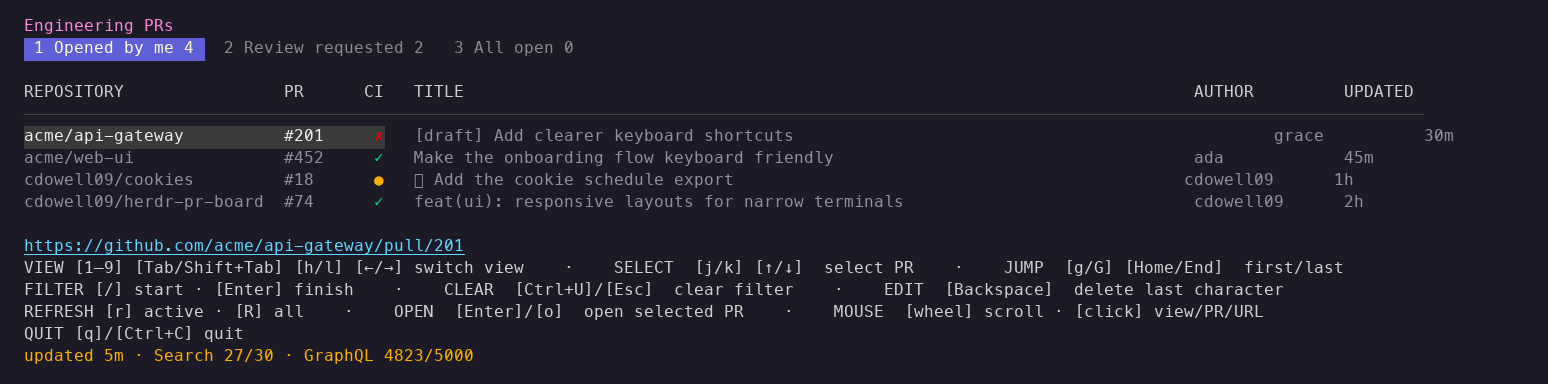
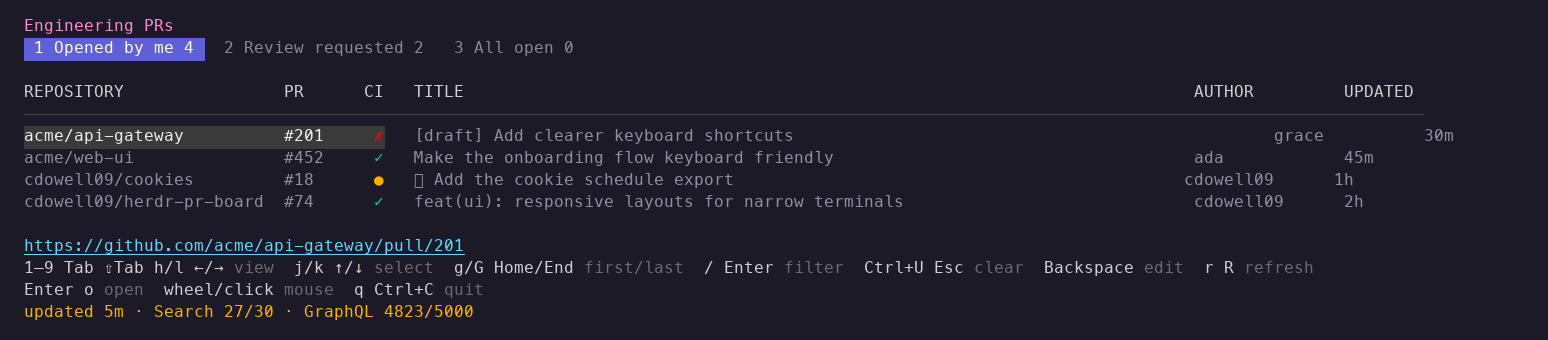
fix(ui): simplify shortcut footer

diff --git a/internal/board/model.go b/internal/board/model.go
@@ -43,7 +43,7 @@ var (
 	headerStyle   = lipgloss.NewStyle().Bold(true).Foreground(lipgloss.Color("252")).BorderBottom(true).BorderStyle(lipgloss.NormalBorder()).BorderForeground(lipgloss.Color("238"))
 	selectedStyle = lipgloss.NewStyle().Foreground(lipgloss.Color("255")).Background(lipgloss.Color("237"))
 	dimStyle      = lipgloss.NewStyle().Foreground(lipgloss.Color("242"))
-	helpStyle     = lipgloss.NewStyle().Foreground(lipgloss.Color("252"))
+	keyStyle      = lipgloss.NewStyle().Bold(true).Foreground(lipgloss.Color("252"))
 	warningStyle  = lipgloss.NewStyle().Foreground(lipgloss.Color("214"))
 	errorStyle    = lipgloss.NewStyle().Foreground(lipgloss.Color("196"))
 	urlStyle      = lipgloss.NewStyle().Foreground(lipgloss.Color("81")).Underline(true)
@@ -68,22 +68,22 @@ type browserMsg struct {
 }
 
 type keyHelpEntry struct {
-	label    string
-	controls string
+	keys   string
+	action string
 }
 
 // keyHelp is the single source of truth for the footer control list.
 var keyHelp = []keyHelpEntry{
-	{"VIEW", "[1–9] [Tab/Shift+Tab] [h/l] [←/→]  switch view"},
-	{"SELECT", "[j/k] [↑/↓]  select PR"},
-	{"JUMP", "[g/G] [Home/End]  first/last"},
-	{"FILTER", "[/] start · [Enter] finish"},
-	{"CLEAR", "[Ctrl+U]/[Esc]  clear filter"},
-	{"EDIT", "[Backspace]  delete last character"},
-	{"REFRESH", "[r] active · [R] all"},
-	{"OPEN", "[Enter]/[o]  open selected PR"},
-	{"MOUSE", "[wheel] scroll · [click] view/PR/URL"},
-	{"QUIT", "[q]/[Ctrl+C] quit"},
+	{"1–9 Tab ⇧Tab h/l ←/→", "view"},
+	{"j/k ↑/↓", "select"},
+	{"g/G Home/End", "first/last"},
+	{"/ Enter", "filter"},
+	{"Ctrl+U Esc", "clear"},
+	{"Backspace", "edit"},
+	{"r R", "refresh"},
+	{"Enter o", "open"},
+	{"wheel/click", "mouse"},
+	{"q Ctrl+C", "quit"},
 }
 
 // documentedKeys lists every key literal the README must document. The
@@ -456,9 +456,6 @@ func (m Model) renderSelected() string {
 
 func (m Model) renderFooter() string {
 	help := m.footerHelpLines()
-	for i := range help {
-		help[i] = helpStyle.Render(help[i])
-	}
 
 	meta := ""
 	freshness := m.currentView().UpdatedAt
@@ -480,50 +477,18 @@ func (m Model) renderFooter() string {
 	return strings.Join(append(help, warningStyle.Render(truncate(meta, m.width))), "\n")
 }
 
-// footerHelpLines wraps the control reference at group boundaries so each
-// shortcut keeps its label and its meaning visible on narrow terminals.
+// footerHelpLines wraps the control reference at pair boundaries so each
+// keybinding stays next to its action on narrow terminals. Keys render
+// bright and actions dim so the two never blend together.
 func (m Model) footerHelpLines() []string {
 	width := max(1, m.width)
 	var lines []string
 	current := ""
 	for _, entry := range keyHelp {
-		group := entry.label + "  " + entry.controls
+		pair := keyStyle.Render(entry.keys) + " " + dimStyle.Render(entry.action)
+		candidate := pair
 		if current != "" {
-			candidate := current + "    ·    " + group
-			if lipgloss.Width(candidate) <= width {
-				current = candidate
-				continue
-			}
-			lines = append(lines, current)
-			current = ""
-		}
-
-		wrapped := wrapFooterText(group, width)
-		if len(wrapped) == 0 {
-			continue
-		}
-		lines = append(lines, wrapped[:len(wrapped)-1]...)
-		current = wrapped[len(wrapped)-1]
-	}
-	if current != "" {
-		lines = append(lines, current)
-	}
-
-	if m.editing {
-		lines = append(lines, truncate("FILTERING  "+m.filter+"▌", width))
-	} else if m.filter != "" {
-		lines = append(lines, truncate("FILTERED  "+m.filter, width))
-	}
-	return lines
-}
-
-func wrapFooterText(text string, width int) []string {
-	var lines []string
-	current := ""
-	for _, word := range strings.Fields(text) {
-		candidate := word
-		if current != "" {
-			candidate = current + " " + word
+			candidate = current + "  " + pair
 		}
 		if lipgloss.Width(candidate) <= width {
 			current = candidate
@@ -532,10 +497,16 @@ func wrapFooterText(text string, width int) []string {
 		if current != "" {
 			lines = append(lines, current)
 		}
-		current = truncate(word, width)
+		current = pair
 	}
 	if current != "" {
 		lines = append(lines, current)
+	}
+
+	if m.editing {
+		lines = append(lines, dimStyle.Render("filter: ")+truncate(m.filter+"▌", max(1, width-8)))
+	} else if m.filter != "" {
+		lines = append(lines, dimStyle.Render("filter: ")+truncate(m.filter, max(1, width-8)))
 	}
 	return lines
 }

diff --git a/internal/board/layout_test.go b/internal/board/layout_test.go
@@ -226,8 +226,9 @@ func TestFooterNamesShortcutContexts(t *testing.T) {
 	model := layoutModel(t, 200)
 	footer := stripANSI(model.renderFooter())
 	for _, want := range []string{
-		"VIEW", "SELECT", "JUMP", "FILTER", "CLEAR", "EDIT", "REFRESH", "OPEN", "MOUSE", "QUIT",
-		"[Enter] finish", "[Enter]/[o]  open selected PR", "[Backspace]  delete last character",
+		"h/l ←/→ view", "j/k ↑/↓ select", "g/G Home/End first/last",
+		"/ Enter filter", "Ctrl+U Esc clear", "Backspace edit",
+		"r R refresh", "Enter o open", "wheel/click mouse", "q Ctrl+C quit",
 	} {
 		if !strings.Contains(footer, want) {
 			t.Fatalf("footer missing %q:\n%s", want, footer)

diff --git a/README.md b/README.md
@@ -265,7 +265,7 @@ refresh_interval = "0"
 
 If the operating system cannot open the browser, the board keeps the selected URL visible. It reports the failure at the bottom of the screen.
 
-The footer groups controls by task and wraps them for narrow terminals.
+The footer pairs each keybinding with its action and wraps them for narrow terminals.
 
 ![Grouped keyboard shortcuts in the board footer](docs/images/keyboard-shortcuts.png)
 
